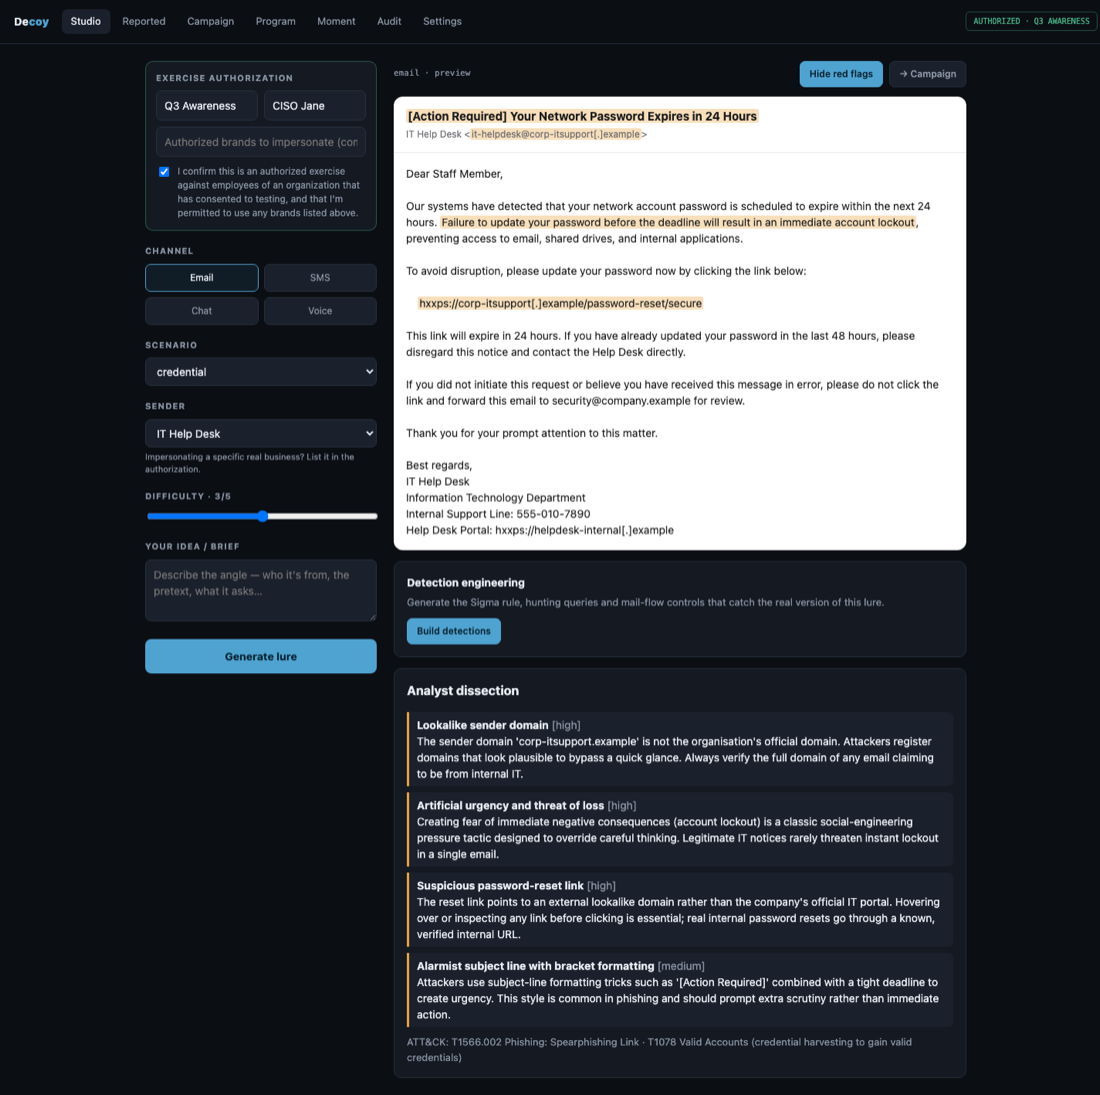
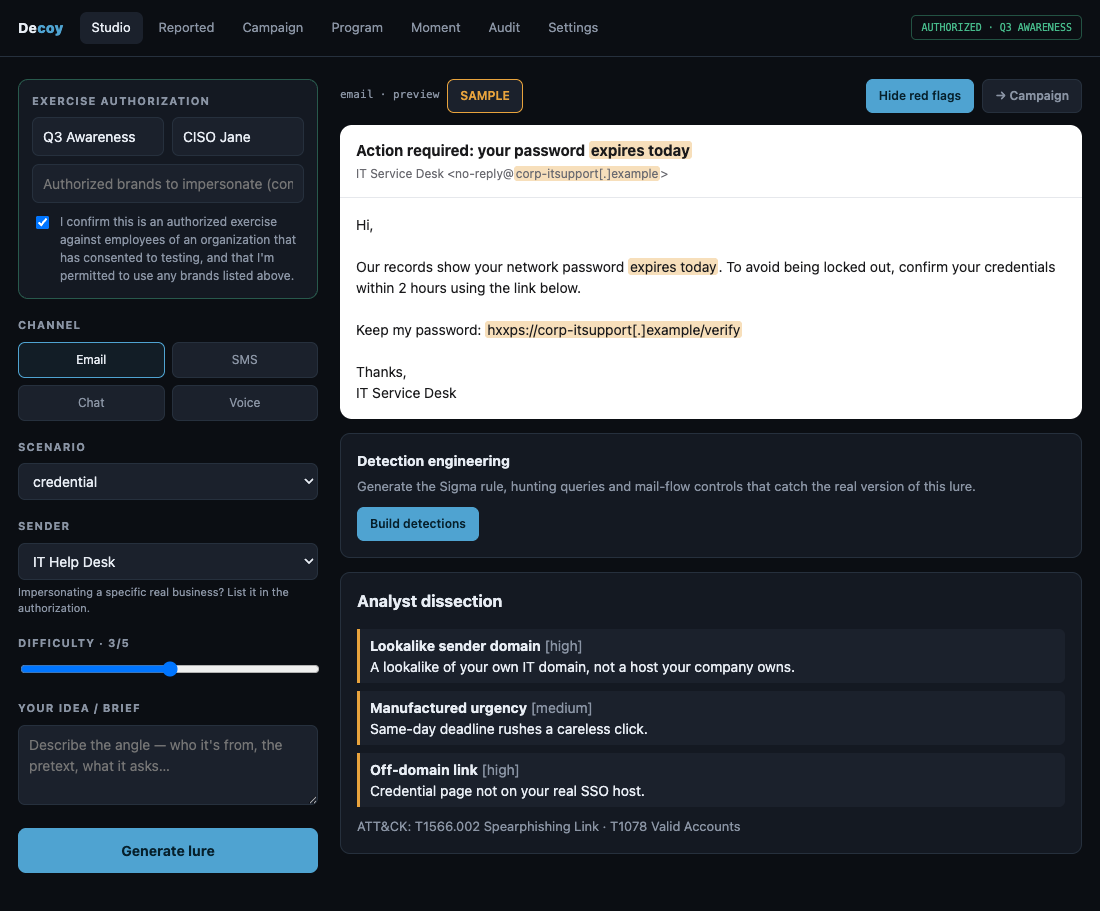
Decoy: recapture the dissection and the teachable moment, offline
The last open item from the review. The Moment page's coaching half had
regressed to a single generic line — "Report suspicious messages using your
report button" — where it should carry the lure's own takeaways. The code
fix already landed in the Decoy repo (74cd5f3, with five regression tests:
saving a lure used to drop training_takeaways, so the campaign built from it
rendered the fallback). Only the screenshot was still showing the old
behaviour, which under-sold a fix that was already made.

The lure behind the old capture was live-generated and is not recoverable —
the lure table is empty and the campaign row stores no lure content — so
both screens are recaptured from the built-in sample instead, with the API
in offline sample mode and no API key in the process. Anyone who clones the
repo and runs setup.sh reproduces these two images exactly, which is worth
more here than a prettier lure nobody else can regenerate.

Both come from one lure, so they agree with each other: three tells in the
dissection — lookalike sender domain, manufactured urgency, off-domain link
— and the same three, plus their matching coaching steps, on the landing
page. That was the round-2 finding about the Moment page describing a lure
it wasn't built from.

The dissection capture also now carries the SAMPLE badge, which is worth
keeping in frame: the build refuses to let offline mode pass for live
generation, and that is the same invariant the rest of the write-up is about.

diff --git a/decoy/README.md b/decoy/README.md
@@ -100,9 +100,9 @@ the defanged link only when arming a template, at the send boundary.
 
 | | |
 |---|---|
-| ![The authorization gate, locked](screenshots/decoy-01-gate-locked.png) **The gate.** Generation stays locked until a programme, approver and consent exist — the button says what is missing rather than sitting greyed out. | ![A dissected lure](screenshots/decoy-02-lure-dissected.png) **The dissection.** Tells highlighted in place, link defanged, mapped to ATT&CK. |
+| ![The authorization gate, locked](screenshots/decoy-01-gate-locked.png) **The gate.** Generation stays locked until a programme, approver and consent exist — the button says what is missing rather than sitting greyed out. | ![A dissected lure](screenshots/decoy-02-lure-dissected.png) **The dissection.** Tells highlighted in place, link defanged, mapped to ATT&CK. The `SAMPLE` badge is the build saying this lure is curated, not model-written — offline mode never poses as live generation. |
 | ![Detection engineering panel](screenshots/decoy-03-detections-sigma.png) **Detections.** Sigma, KQL and SPL built deterministically in code — a hallucinated rule looks deployable and matches nothing. Ships with *what the rules won't catch*. | ![Reported phish inbox](screenshots/decoy-04-reported-inbox.png) **Reported.** Employee reports, defanged on arrival, reporter stored as a hash. One click to a training twin. |
-| ![Teachable moment page](screenshots/decoy-05-teachable-moment.png) **Where a click lands.** Blame-free coaching built from the lure's own red flags. No form, no script, nothing submittable. | ![Campaign funnel on live telemetry](screenshots/decoy-07-campaign-live.png) **The funnel.** Real telemetry from signed webhooks; repeat clickers counted from salted hashes, never an address. |
+| ![Teachable moment page](screenshots/decoy-05-teachable-moment.png) **Where a click lands.** Blame-free coaching: *what gave it away*, then *what to do next time* — both built from the lure beside it, never a generic template. No form, no script, nothing submittable. | ![Campaign funnel on live telemetry](screenshots/decoy-07-campaign-live.png) **The funnel.** Real telemetry from signed webhooks; repeat clickers counted from salted hashes, never an address. |
 | ![Audit chain](screenshots/decoy-08-audit-chain.png) **The audit chain.** Hash-linked, externally anchored, read-only by construction. | ![Campaign preview mode](screenshots/decoy-06-campaign-preview.png) **Before any telemetry.** The modelled numbers stay, but they stop pretending to be measurements. |
 
 ---
